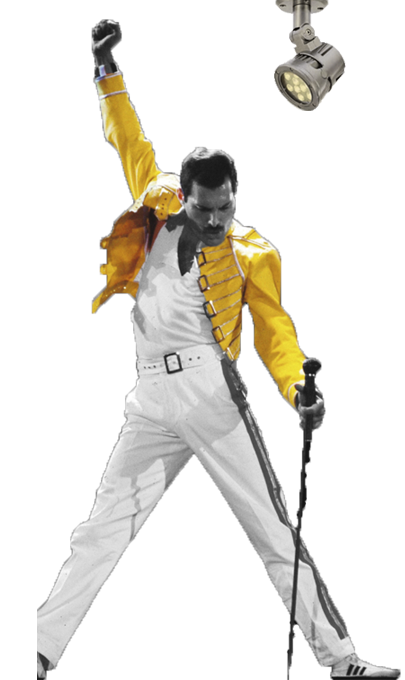
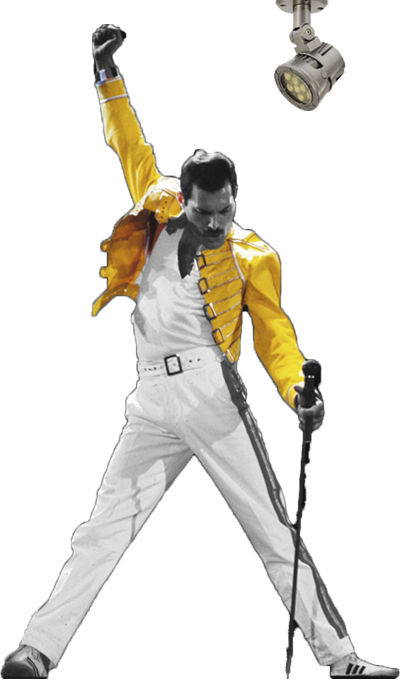
hovereffect freddie header

diff --git a/src/index.html b/src/index.html
@@ -36,7 +36,9 @@
   <header class="header">
     <div class="header-insider">
       <div class="header-intro">
-        <img src="assets/img/freddie_lights_out.png" alt="freddie mercury pose" class="header-img">
+        <img src="assets/img/freddie_lights_out.png" alt="freddie mercury pose"
+        class="header-img" onmouseover="this.src='assets/img/freddie_lights_on.png';"
+            onmouseout="this.src='assets/img/freddie_lights_out.png';">
         <h1 class="header-title"><span class="yellow">Crazy</span> little things
           <span class="yellow">Freddie</span> loved
         </h1>
